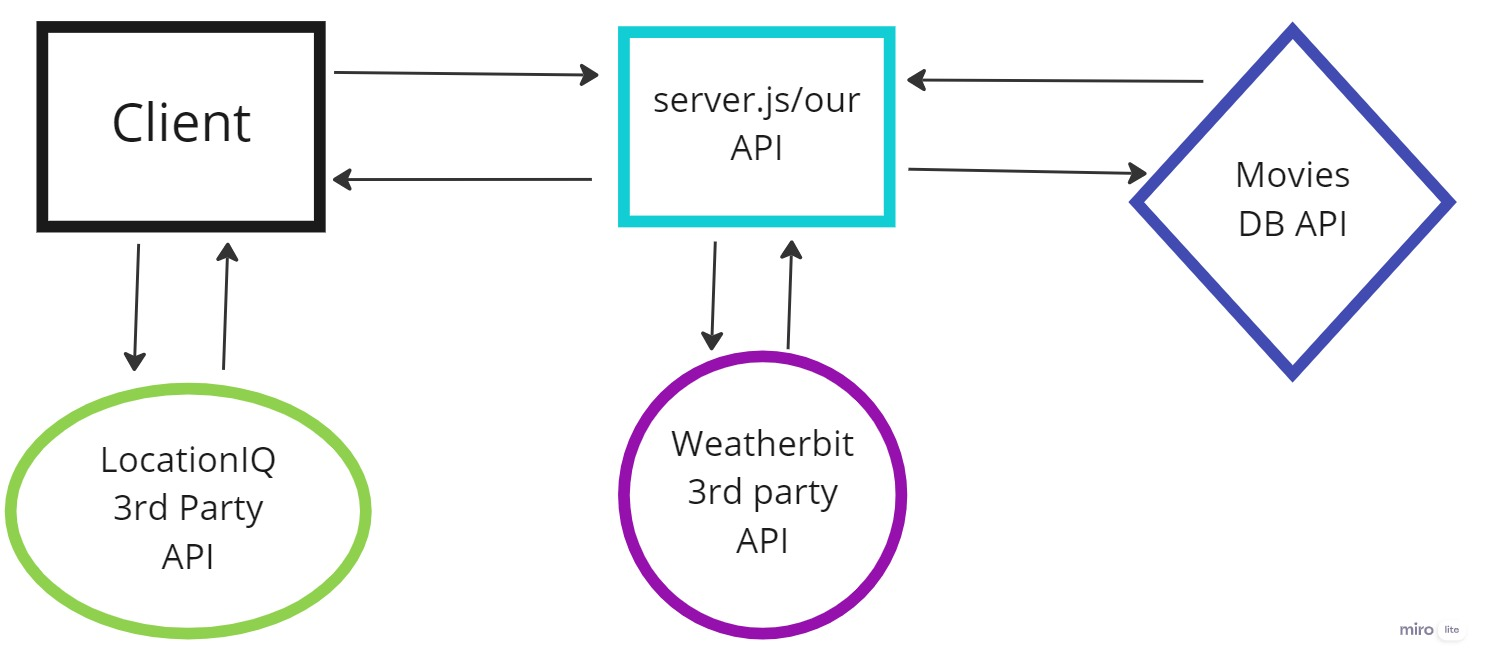
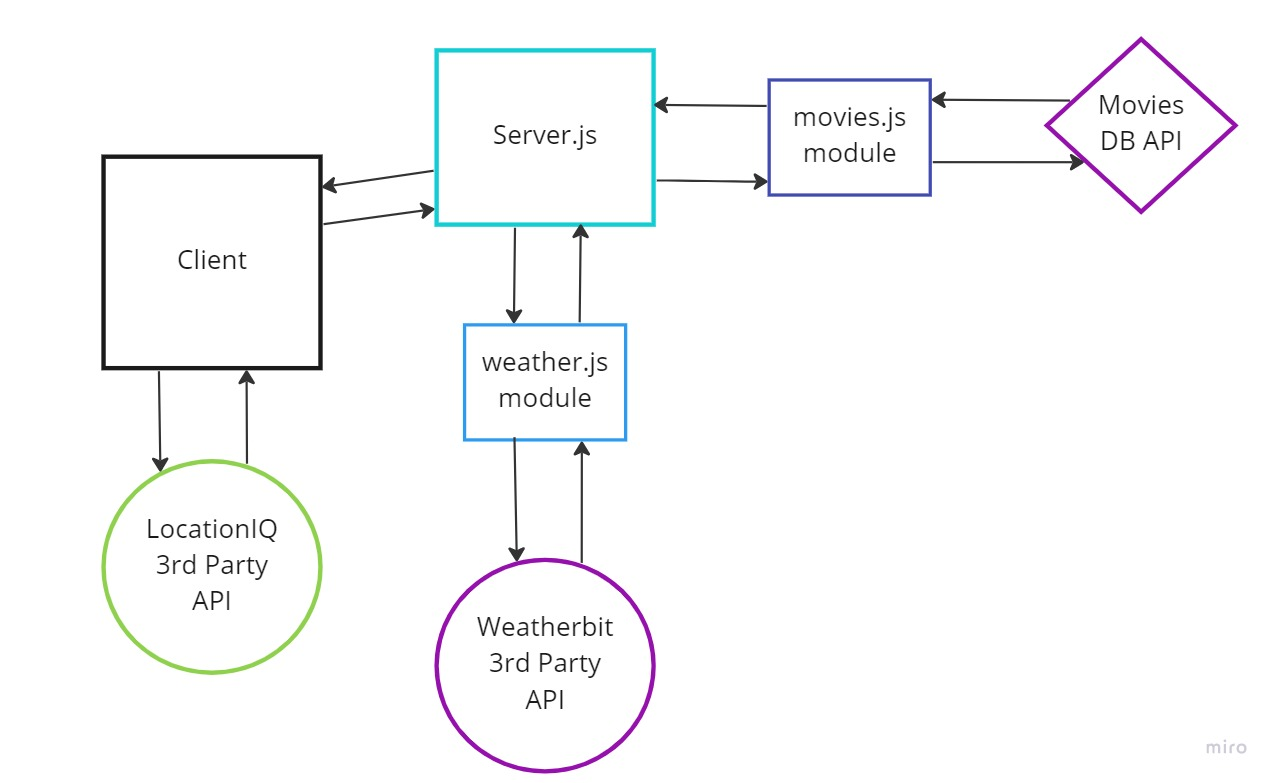
task 1 complete--Refactor: Modularize the back-end codebase.

diff --git a/src/Movies.js b/src/Movies.js
@@ -1,37 +1,33 @@
 import React from 'react';
 import {Carousel} from 'react-bootstrap';
+import errorImg from './images/error.jpg'
 
 class Movies extends React.Component
-{
-
-  
-    
+{    
   render()
   { 
-    let carouselItems = this.props.moviesData.map((element, index) => {
-      return (
-        <Carousel.Item key={index}>
-        <img
-          className="d-block w-100"
-          src={element.image_url}
-          alt={element.title}
-        />
-        <Carousel.Caption>
-          <h3 style={{ backgroundColor: 'teal', borderRadius: '5px', width: 'max-content', margin: 'auto', padding: '5px' }}>
-            {element.title}
-          </h3>
-        </Carousel.Caption>
-      </Carousel.Item>
-      );
-    })
+ 
 
     return (
-      <>
+      
         <Carousel>
-          {carouselItems}
+          {this.props.moviesData.map((element, index) => {
+            return (
+              <Carousel.Item key={index}>
+                <img
+                  className="d-block w-100"
+                  src={element.image_url ? `https://image.tmdb.org/t/p/w500${element.image_url}` : errorImg}
+                  alt={element.title}
+                />
+              <Carousel.Caption>
+                <h3 style={{ backgroundColor: 'teal', borderRadius: '5px', width: 'max-content', margin: 'auto', padding: '5px' }}>
+                  {element.title}
+                </h3>
+              </Carousel.Caption>
+            </Carousel.Item>
+            );
+          })}
        </Carousel>
-        
-      </>
     );
   }
 }

diff --git a/src/App.js b/src/App.js
@@ -1,5 +1,7 @@
 import React from 'react';
+import 'bootstrap/dist/css/bootstrap.min.css';
 import './App.css';
+
 import axios from 'axios';
 import {Card,Container} from 'react-bootstrap';
 import errorImg from './images/error.jpg'
@@ -160,9 +162,9 @@ class App extends React.Component {
               </Card>  
           }
 
-          <Container>
+          {/* <Container> */}
             <Movies moviesData={this.state.movieData}/>
-          </Container>
+          {/* </Container> */}
         </main>
       </>
       

diff --git a/src/index.js b/src/index.js
@@ -4,6 +4,7 @@ import './index.css';
 import App from './App';
 import reportWebVitals from './reportWebVitals';
 
+
 const root = ReactDOM.createRoot(document.getElementById('root'));
 root.render(
   <React.StrictMode>

diff --git a/README.md b/README.md
@@ -25,7 +25,7 @@
 ## Credit and Collaborations
 <!-- Give credit (and a link) to other people or resources that helped you build this application. -->
 + [ Error red text between blue binary data on screen by Marco Verch](https://www.flickr.com/photos/30478819@N08/32983982788)
-+ [weather icons](https://github.com/Makin-Things/weather-icons)
++ [weather icons by Makin-Things](https://github.com/Makin-Things/weather-icons)
 
 ## Lab 06
 
@@ -45,5 +45,18 @@ Start time: 1:30 PM
 Finish time: 7:30 PM
 
 Actual time needed to complete: 6 hr
+
+![city-explorer domain](../city-explorer/src/images/city-explorer-domain.jpg)
+
+## Lab 09
+
+Name of feature: 2
+Estimate of time needed to complete: 3 hr
+
+Start time: 2:00 PM
+
+Finish time:  PM
+
+Actual time needed to complete:  hr
 
 ![city-explorer domain](../city-explorer/src/images/city-explorer-domain.jpg)
